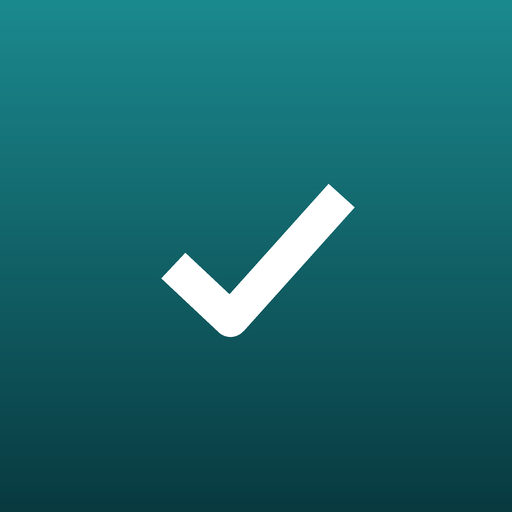
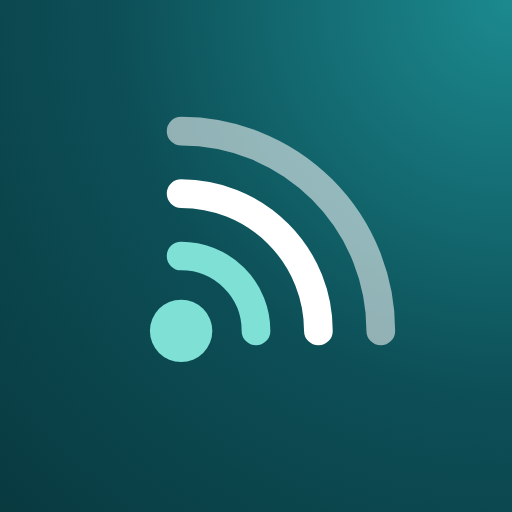
الشعار الجديد «نبض الرصد» (2.0.1)
Claude-Session: https://claude.ai/code/session_01VbSttiqPiskdAqhz7vy1E8

diff --git a/docs/index.html b/docs/index.html
@@ -696,7 +696,7 @@ function render(){
 function topBars(){return installBar()+planBar()+`${S.demo&&!isFol()?`<div class="demo-bar"><span>تعرض الآن <b>مدرسة تجريبية وهمية</b> للتجربة. ارفع جدول مدرستك من «الإعداد والجدول» لتبدأ.</span><button class="btn" id="wizB">ابدأ مدرستك في 3 خطوات</button></div>`:''}${updBar()}${mpBar()}`}
 function header(){const cp=curPeriod(S.settings.times);const isToday=V.date===today();
   const tab=(id,t)=>`<a href="#${id}" ${V.tab===id?'aria-current="page"':''}>${t}</a>`;
-  return `<header class="top"><div class="brand"><div><h1><span class="mark" aria-hidden="true"><svg viewBox="0 0 24 24" fill="none" stroke="#fff" stroke-width="2.4" stroke-linecap="round" stroke-linejoin="round"><path d="M4 12.5 9 17 20 6"/></svg></span>راصد المبسّط</h1>
+  return `<header class="top"><div class="brand"><div><h1><span class="mark" aria-hidden="true"><svg viewBox="0 0 24 24" fill="none" stroke="#fff" stroke-width="2.4" stroke-linecap="round" ><path d="M7.5 9.75A6.75 6.75 0 0 1 14.25 16.5" stroke="#1b8a8f"/><path d="M7.5 4.5A12 12 0 0 1 19.5 16.5"/><circle cx="7.5" cy="16.5" r="2.4" fill="#1b8a8f" stroke="none"/></svg></span>راصد المبسّط</h1>
    <div class="school">${esc(S.settings.school)}</div></div><div style="display:grid;gap:6px;justify-items:end"><div class="clock num" id="clock">${hm()}</div>${roleBar()}</div></div>
    <nav class="tabs" aria-label="الأقسام">${tab('now','الآن')}${isFol()?'':`${tab('day','اليوم')}${tab('week','الأسبوع')}${tab('month','الشهر')}${tab('setup','الإعداد والجدول')}`}</nav>
   </header>`}
@@ -811,7 +811,7 @@ function setupView(){const s=S.settings;const nT=new Set(S.rows.map(r=>r.t)).siz
    <div class="bar-row" style="margin:0"><button class="btn danger" id="clrMarks">مسح الرصد فقط</button><button class="btn danger" id="reset">مسح كل شيء والعودة للمدرسة التجريبية</button></div>
   </div></div>${autoSetupHTML()}${syncSetupHTML()}${planSetupHTML()}${sendSetupHTML()}${tplHTML()}`}
 
-function lockView(){return `<div class="lock"><span class="mark" style="margin:auto;width:48px;height:48px;border-radius:12px" aria-hidden="true"><svg viewBox="0 0 24 24" fill="none" stroke="#fff" stroke-width="2.4" stroke-linecap="round" stroke-linejoin="round" style="width:26px;height:26px"><path d="M4 12.5 9 17 20 6"/></svg></span>
+function lockView(){return `<div class="lock"><span class="mark" style="margin:auto;width:48px;height:48px;border-radius:12px" aria-hidden="true"><svg viewBox="0 0 24 24" fill="none" stroke="#fff" stroke-width="2.4" stroke-linecap="round"  style="width:26px;height:26px"><path d="M7.5 9.75A6.75 6.75 0 0 1 14.25 16.5" stroke="#7fe0d6"/><path d="M7.5 4.5A12 12 0 0 1 19.5 16.5"/><circle cx="7.5" cy="16.5" r="2.4" fill="#7fe0d6" stroke="none"/></svg></span>
   <h1 style="font-size:24px">راصد المبسّط</h1><div class="muted">${esc(S.settings.school)}</div><div class="pill" style="justify-self:center">دخول المدير أو المتابع</div>
   <form id="lockF"><input id="pin" type="password" inputmode="numeric" autocomplete="off" aria-label="رمز الدخول" placeholder="••••"><p id="lockErr" class="small" style="color:var(--bad);min-height:1.5em;margin:6px 0"></p>
   <button class="btn primary" style="width:100%;justify-content:center">دخول</button></form>

diff --git a/extension/app.js b/extension/app.js
@@ -459,7 +459,7 @@ function render(){
 function topBars(){return installBar()+planBar()+`${S.demo&&!isFol()?`<div class="demo-bar"><span>تعرض الآن <b>مدرسة تجريبية وهمية</b> للتجربة. ارفع جدول مدرستك من «الإعداد والجدول» لتبدأ.</span><button class="btn" id="wizB">ابدأ مدرستك في 3 خطوات</button></div>`:''}${updBar()}${mpBar()}`}
 function header(){const cp=curPeriod(S.settings.times);const isToday=V.date===today();
   const tab=(id,t)=>`<a href="#${id}" ${V.tab===id?'aria-current="page"':''}>${t}</a>`;
-  return `<header class="top"><div class="brand"><div><h1><span class="mark" aria-hidden="true"><svg viewBox="0 0 24 24" fill="none" stroke="#fff" stroke-width="2.4" stroke-linecap="round" stroke-linejoin="round"><path d="M4 12.5 9 17 20 6"/></svg></span>راصد المبسّط</h1>
+  return `<header class="top"><div class="brand"><div><h1><span class="mark" aria-hidden="true"><svg viewBox="0 0 24 24" fill="none" stroke="#fff" stroke-width="2.4" stroke-linecap="round" ><path d="M7.5 9.75A6.75 6.75 0 0 1 14.25 16.5" stroke="#1b8a8f"/><path d="M7.5 4.5A12 12 0 0 1 19.5 16.5"/><circle cx="7.5" cy="16.5" r="2.4" fill="#1b8a8f" stroke="none"/></svg></span>راصد المبسّط</h1>
    <div class="school">${esc(S.settings.school)}</div></div><div style="display:grid;gap:6px;justify-items:end"><div class="clock num" id="clock">${hm()}</div>${roleBar()}</div></div>
    <nav class="tabs" aria-label="الأقسام">${tab('now','الآن')}${isFol()?'':`${tab('day','اليوم')}${tab('week','الأسبوع')}${tab('month','الشهر')}${tab('setup','الإعداد والجدول')}`}</nav>
   </header>`}
@@ -574,7 +574,7 @@ function setupView(){const s=S.settings;const nT=new Set(S.rows.map(r=>r.t)).siz
    <div class="bar-row" style="margin:0"><button class="btn danger" id="clrMarks">مسح الرصد فقط</button><button class="btn danger" id="reset">مسح كل شيء والعودة للمدرسة التجريبية</button></div>
   </div></div>${autoSetupHTML()}${syncSetupHTML()}${planSetupHTML()}${sendSetupHTML()}${tplHTML()}`}
 
-function lockView(){return `<div class="lock"><span class="mark" style="margin:auto;width:48px;height:48px;border-radius:12px" aria-hidden="true"><svg viewBox="0 0 24 24" fill="none" stroke="#fff" stroke-width="2.4" stroke-linecap="round" stroke-linejoin="round" style="width:26px;height:26px"><path d="M4 12.5 9 17 20 6"/></svg></span>
+function lockView(){return `<div class="lock"><span class="mark" style="margin:auto;width:48px;height:48px;border-radius:12px" aria-hidden="true"><svg viewBox="0 0 24 24" fill="none" stroke="#fff" stroke-width="2.4" stroke-linecap="round"  style="width:26px;height:26px"><path d="M7.5 9.75A6.75 6.75 0 0 1 14.25 16.5" stroke="#7fe0d6"/><path d="M7.5 4.5A12 12 0 0 1 19.5 16.5"/><circle cx="7.5" cy="16.5" r="2.4" fill="#7fe0d6" stroke="none"/></svg></span>
   <h1 style="font-size:24px">راصد المبسّط</h1><div class="muted">${esc(S.settings.school)}</div><div class="pill" style="justify-self:center">دخول المدير أو المتابع</div>
   <form id="lockF"><input id="pin" type="password" inputmode="numeric" autocomplete="off" aria-label="رمز الدخول" placeholder="••••"><p id="lockErr" class="small" style="color:var(--bad);min-height:1.5em;margin:6px 0"></p>
   <button class="btn primary" style="width:100%;justify-content:center">دخول</button></form>

diff --git a/src/rased-lite.html b/src/rased-lite.html
@@ -695,7 +695,7 @@ function render(){
 function topBars(){return installBar()+planBar()+`${S.demo&&!isFol()?`<div class="demo-bar"><span>تعرض الآن <b>مدرسة تجريبية وهمية</b> للتجربة. ارفع جدول مدرستك من «الإعداد والجدول» لتبدأ.</span><button class="btn" id="wizB">ابدأ مدرستك في 3 خطوات</button></div>`:''}${updBar()}${mpBar()}`}
 function header(){const cp=curPeriod(S.settings.times);const isToday=V.date===today();
   const tab=(id,t)=>`<a href="#${id}" ${V.tab===id?'aria-current="page"':''}>${t}</a>`;
-  return `<header class="top"><div class="brand"><div><h1><span class="mark" aria-hidden="true"><svg viewBox="0 0 24 24" fill="none" stroke="#fff" stroke-width="2.4" stroke-linecap="round" stroke-linejoin="round"><path d="M4 12.5 9 17 20 6"/></svg></span>راصد المبسّط</h1>
+  return `<header class="top"><div class="brand"><div><h1><span class="mark" aria-hidden="true"><svg viewBox="0 0 24 24" fill="none" stroke="#fff" stroke-width="2.4" stroke-linecap="round" ><path d="M7.5 9.75A6.75 6.75 0 0 1 14.25 16.5" stroke="#1b8a8f"/><path d="M7.5 4.5A12 12 0 0 1 19.5 16.5"/><circle cx="7.5" cy="16.5" r="2.4" fill="#1b8a8f" stroke="none"/></svg></span>راصد المبسّط</h1>
    <div class="school">${esc(S.settings.school)}</div></div><div style="display:grid;gap:6px;justify-items:end"><div class="clock num" id="clock">${hm()}</div>${roleBar()}</div></div>
    <nav class="tabs" aria-label="الأقسام">${tab('now','الآن')}${isFol()?'':`${tab('day','اليوم')}${tab('week','الأسبوع')}${tab('month','الشهر')}${tab('setup','الإعداد والجدول')}`}</nav>
   </header>`}
@@ -810,7 +810,7 @@ function setupView(){const s=S.settings;const nT=new Set(S.rows.map(r=>r.t)).siz
    <div class="bar-row" style="margin:0"><button class="btn danger" id="clrMarks">مسح الرصد فقط</button><button class="btn danger" id="reset">مسح كل شيء والعودة للمدرسة التجريبية</button></div>
   </div></div>${autoSetupHTML()}${syncSetupHTML()}${planSetupHTML()}${sendSetupHTML()}${tplHTML()}`}
 
-function lockView(){return `<div class="lock"><span class="mark" style="margin:auto;width:48px;height:48px;border-radius:12px" aria-hidden="true"><svg viewBox="0 0 24 24" fill="none" stroke="#fff" stroke-width="2.4" stroke-linecap="round" stroke-linejoin="round" style="width:26px;height:26px"><path d="M4 12.5 9 17 20 6"/></svg></span>
+function lockView(){return `<div class="lock"><span class="mark" style="margin:auto;width:48px;height:48px;border-radius:12px" aria-hidden="true"><svg viewBox="0 0 24 24" fill="none" stroke="#fff" stroke-width="2.4" stroke-linecap="round"  style="width:26px;height:26px"><path d="M7.5 9.75A6.75 6.75 0 0 1 14.25 16.5" stroke="#7fe0d6"/><path d="M7.5 4.5A12 12 0 0 1 19.5 16.5"/><circle cx="7.5" cy="16.5" r="2.4" fill="#7fe0d6" stroke="none"/></svg></span>
   <h1 style="font-size:24px">راصد المبسّط</h1><div class="muted">${esc(S.settings.school)}</div><div class="pill" style="justify-self:center">دخول المدير أو المتابع</div>
   <form id="lockF"><input id="pin" type="password" inputmode="numeric" autocomplete="off" aria-label="رمز الدخول" placeholder="••••"><p id="lockErr" class="small" style="color:var(--bad);min-height:1.5em;margin:6px 0"></p>
   <button class="btn primary" style="width:100%;justify-content:center">دخول</button></form>

diff --git a/docs/t/index.html b/docs/t/index.html
@@ -27,7 +27,7 @@ button:disabled{opacity:.55}
 footer{text-align:center;color:var(--muted);font-size:12px;margin-top:18px}
 </style></head><body>
 <div class="box" id="box">
-  <span class="mark"><svg width="26" height="26" viewBox="0 0 24 24" fill="none" stroke="#fff" stroke-width="2.6" stroke-linecap="round" stroke-linejoin="round"><path d="M4 12.5 9 17 20 6"/></svg></span>
+  <span class="mark"><svg width="26" height="26" viewBox="0 0 24 24" fill="none" stroke="#fff" stroke-width="2.6" stroke-linecap="round" ><path d="M7.5 9.75A6.75 6.75 0 0 1 14.25 16.5" stroke="#7fe0d6"/><path d="M7.5 4.5A12 12 0 0 1 19.5 16.5"/><circle cx="7.5" cy="16.5" r="2.4" fill="#7fe0d6" stroke="none"/></svg></span>
   <h1>تسجيل جوال المعلم</h1><p class="sc" id="sc">…</p>
   <label>الاسم كما في منصة مدرستي<input id="nm" autocomplete="name" placeholder="مثال: خالد أحمد السالم"></label>
   <label>رقم الجوال (واتساب)<input id="ph" dir="ltr" inputmode="tel" autocomplete="tel" placeholder="05xxxxxxxx"></label>
@@ -50,6 +50,6 @@ loadSchool();
 $('#go').onclick=async()=>{const b=$('#go'),m=$('#msg');if(!$('#cdL').hidden){code=$('#cd').value.toUpperCase().replace(/[^A-Z0-9]/g,'')}
   const nm=$('#nm').value.trim(),ph=$('#ph').value.trim();if(!nm||!ph){m.innerHTML='<span class="bad">اكتب الاسم والجوال</span>';return}
   b.disabled=true;m.textContent='⏳ …';
-  try{await rpc('lite_phone_submit',{p_code:code,p_name:nm,p_phone:ph});$('#box').innerHTML=`<span class="mark"><svg width="26" height="26" viewBox="0 0 24 24" fill="none" stroke="#fff" stroke-width="2.6" stroke-linecap="round" stroke-linejoin="round"><path d="M4 12.5 9 17 20 6"/></svg></span><h1>تم التسجيل</h1><p class="note" style="font-size:15px">شكرًا لك. ستصلك تذكيرات الحصص على هذا الرقم.</p>`}
+  try{await rpc('lite_phone_submit',{p_code:code,p_name:nm,p_phone:ph});$('#box').innerHTML=`<span class="mark"><svg width="26" height="26" viewBox="0 0 24 24" fill="none" stroke="#fff" stroke-width="2.6" stroke-linecap="round" ><path d="M7.5 9.75A6.75 6.75 0 0 1 14.25 16.5" stroke="#7fe0d6"/><path d="M7.5 4.5A12 12 0 0 1 19.5 16.5"/><circle cx="7.5" cy="16.5" r="2.4" fill="#7fe0d6" stroke="none"/></svg></span><h1>تم التسجيل</h1><p class="note" style="font-size:15px">شكرًا لك. ستصلك تذكيرات الحصص على هذا الرقم.</p>`}
   catch(e){m.innerHTML=`<span class="bad">${e.message.replace(/[<>&]/g,'')}</span>`;b.disabled=false}};
 </script></body></html>

diff --git a/docs/about/index.html b/docs/about/index.html
@@ -47,7 +47,7 @@ footer{text-align:center;color:var(--muted);font-size:13px;padding-block:10px 32
 @media (max-width:640px){.promo{grid-template-columns:1fr}.promo video{max-width:340px;margin:0 auto}}
 </style></head><body>
 <header><div class="w">
-  <div class="brand"><span class="mark" aria-hidden="true"><svg viewBox="0 0 24 24" fill="none" stroke="#0d4f57" stroke-width="2.4" stroke-linecap="round" stroke-linejoin="round"><path d="M4 12.5 9 17 20 6"/></svg></span>راصد المبسّط</div>
+  <div class="brand"><span class="mark" aria-hidden="true"><svg viewBox="0 0 24 24" fill="none" stroke="#0d4f57" stroke-width="2.4" stroke-linecap="round" ><path d="M7.5 9.75A6.75 6.75 0 0 1 14.25 16.5" stroke="#1b8a8f"/><path d="M7.5 4.5A12 12 0 0 1 19.5 16.5"/><circle cx="7.5" cy="16.5" r="2.4" fill="#1b8a8f" stroke="none"/></svg></span>راصد المبسّط</div>
   <h1>متابعة حضور المعلمين في الحصص الافتراضية، بخطوات بسيطة</h1>
   <p class="lead">صفحة واحدة يرصد فيها المدير والمتابعون حضور المعلمين في حصص Teams، ويذكّرون المتأخر برسالة واتساب جاهزة، ويستخرجون تقارير اليوم والأسبوع والشهر. مجانية، ولا تحتاج حسابًا.</p>
   <div class="cta"><a class="btn w1" href="../">افتح راصد</a><a class="btn w2" href="../">جرّب المدرسة التجريبية (رمز المدير 1234)</a></div>

diff --git a/extension/madrasati.js b/extension/madrasati.js
@@ -207,7 +207,7 @@
   }
   function draw(inner) {
     const sc = detectSchool();
-    box.innerHTML = `<div class="hd"><span class="mk"><svg width="18" height="18" viewBox="0 0 24 24" fill="none" stroke="#0d4f57" stroke-width="2.6" stroke-linecap="round" stroke-linejoin="round"><path d="M4 12.5 9 17 20 6"/></svg></span><b>راصد · السحب من مدرستي</b><button class="x" id="mpX" title="إغلاق">×</button></div>
+    box.innerHTML = `<div class="hd"><span class="mk"><svg width="18" height="18" viewBox="0 0 24 24" fill="none" stroke="#0d4f57" stroke-width="2.6" stroke-linecap="round" ><path d="M7.5 9.75A6.75 6.75 0 0 1 14.25 16.5" stroke="#1b8a8f"/><path d="M7.5 4.5A12 12 0 0 1 19.5 16.5"/><circle cx="7.5" cy="16.5" r="2.4" fill="#1b8a8f" stroke="none"/></svg></span><b>راصد · السحب من مدرستي</b><button class="x" id="mpX" title="إغلاق">×</button></div>
       <div class="bd">${inner || `<div class="mu">${sc ? 'المدرسة محددة ✓' : '⚠ اختر المدرسة وافتح صفحة «الفصول» أولًا.'} يقرأ راصد جدول كل فصل لهذا الأسبوع (الحصة، المادة، المعلم)، ولا يغيّر شيئًا في مدرستي.</div>
         <div class="row"><button class="b" id="mpS">فحص عينة (فصل واحد)</button><button class="b p" id="mpA">سحب جدول كل الفصول</button></div>
         <hr style="border:0;border-top:1px solid #e7eeee;margin:4px 0">

diff --git a/docs/sup/index.html b/docs/sup/index.html
@@ -32,7 +32,7 @@ button.p{background:var(--accent);border-color:var(--accent);color:#fff}@media (
 details summary{cursor:pointer;color:var(--accent);font-weight:600}
 footer{text-align:center;color:var(--muted);font-size:12px;margin-top:20px}
 </style></head><body><div class="w">
-<header><h1><span class="mk"><svg width="20" height="20" viewBox="0 0 24 24" fill="none" stroke="#0d4f57" stroke-width="2.6" stroke-linecap="round" stroke-linejoin="round"><path d="M4 12.5 9 17 20 6"/></svg></span>لوحة المشرف</h1>
+<header><h1><span class="mk"><svg width="20" height="20" viewBox="0 0 24 24" fill="none" stroke="#0d4f57" stroke-width="2.6" stroke-linecap="round" ><path d="M7.5 9.75A6.75 6.75 0 0 1 14.25 16.5" stroke="#1b8a8f"/><path d="M7.5 4.5A12 12 0 0 1 19.5 16.5"/><circle cx="7.5" cy="16.5" r="2.4" fill="#1b8a8f" stroke="none"/></svg></span>لوحة المشرف</h1>
   <div style="display:flex;gap:8px;align-items:center"><input type="date" id="dt"><button id="rf">تحديث</button></div></header>
 <div class="panel">
   <div class="kpis num" id="kp"></div>

diff --git a/docs/sw.js b/docs/sw.js
@@ -1,5 +1,5 @@
 /* راصد المبسّط – عامل الخدمة: الشبكة أولًا للصفحة، والذاكرة عند انقطاع الإنترنت */
-const C = 'rased-lite-v2';
+const C = 'rased-lite-v3';
 const CORE = ['./', './index.html', './manifest.webmanifest', './icon-192.png', './icon-512.png'];
 self.addEventListener('install', e => { e.waitUntil(caches.open(C).then(c => c.addAll(CORE)).then(() => self.skipWaiting())); });
 self.addEventListener('activate', e => { e.waitUntil(caches.keys().then(ks => Promise.all(ks.filter(k => k !== C).map(k => caches.delete(k)))).then(() => self.clients.claim())); });
